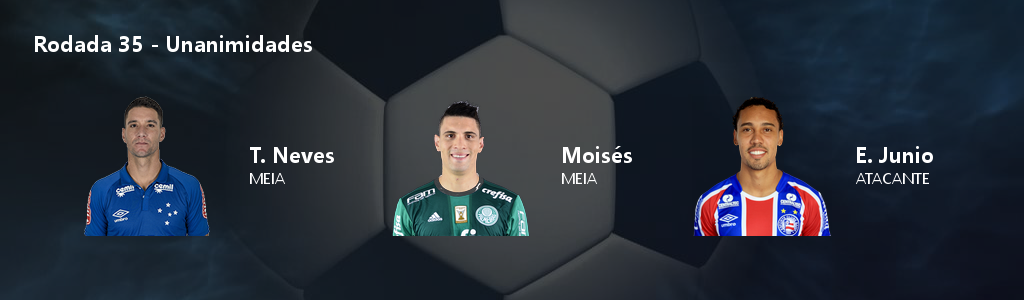
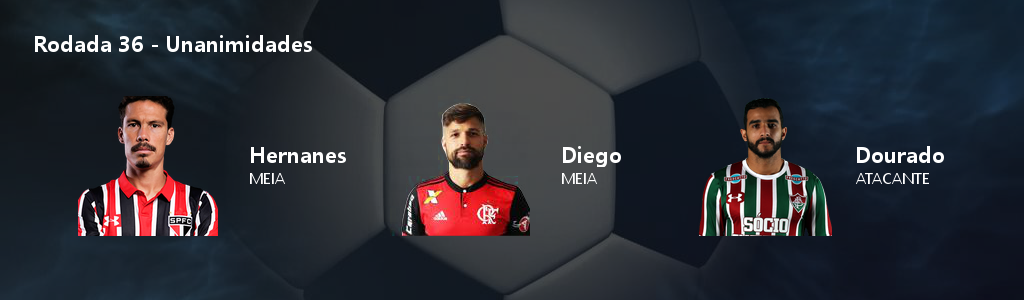
pictures update for round 36 and adjust for getting update's time

diff --git a/js/indexfunctions.js b/js/indexfunctions.js
@@ -181,10 +181,13 @@ function gridMercadoLoad(pTeamFilter, pPosFilter, pStatusFilter){
             posFilter: pPosFilter,
             statusFilter: pStatusFilter
         },
-        function(data, status){
+        function(dataMercado, status){
+            jsonDataMercado = JSON.parse(dataMercado);
+            var d = new Date(jsonDataMercado[0]+" UTC");
+            console.log(d.toLocaleString());
             table = $('#mercado').DataTable();
             table.clear();
-            table.rows.add(JSON.parse(data)).draw();
+            table.rows.add(jsonDataMercado[1]).draw();
         }
     );
 }
@@ -201,73 +204,75 @@ function gridJogadorLoad(pPlayerFilter){
             table = $('#jogador').DataTable();
             table.clear();
             var jsonData = JSON.parse(data);
-            table.rows.add(jsonData).draw();
+            table.rows.add(jsonData[1]).draw();
+            console.log(jsonData);
             
             //Preparing data for graph
             //Get the player's name
-            var playerNickname = jsonData[0].Apelido;
+            var playerNickname = jsonData[1][0].Apelido;
+            console.log(playerNickname);
             
             //Get data and define the labels
-            var auxlblRounds = Enumerable.From(jsonData)
+            var auxlblRounds = Enumerable.From(jsonData[1])
                     .OrderBy("$.Rodada_ID")
                     .Select("x => x.Rodada_ID + '-' + x.CASA_D.trim() + ' x ' + x.FORA_D.trim()").ToArray();
             
             //Load auxiliary variables (Points and Scout)
-            var auxpenPts = Enumerable.From(jsonData)
+            var auxpenPts = Enumerable.From(jsonData[1])
                     .OrderBy("$.Rodada_ID")
                     .Select("$.Pts_Ult").ToArray();
-            var auxpenG = Enumerable.From(jsonData)
+            var auxpenG = Enumerable.From(jsonData[1])
                     .OrderBy("$.Rodada_ID")
                     .Select("$.G").ToArray();
-            var auxpenA = Enumerable.From(jsonData)
+            var auxpenA = Enumerable.From(jsonData[1])
                     .OrderBy("$.Rodada_ID")
                     .Select("$.A").ToArray();
-            var auxpenF = Enumerable.From(jsonData)
+            var auxpenF = Enumerable.From(jsonData[1])
                     .OrderBy("$.Rodada_ID")
                     .Select("$.F").ToArray();
-            var auxpenFT = Enumerable.From(jsonData)
+            var auxpenFT = Enumerable.From(jsonData[1])
                     .OrderBy("$.Rodada_ID")
                     .Select("$.FT").ToArray();
-            var auxpenFD = Enumerable.From(jsonData)
+            var auxpenFD = Enumerable.From(jsonData[1])
                     .OrderBy("$.Rodada_ID")
                     .Select("$.FD").ToArray();
-            var auxpenFF = Enumerable.From(jsonData)
+            var auxpenFF = Enumerable.From(jsonData[1])
                     .OrderBy("$.Rodada_ID")
                     .Select("$.FF").ToArray();
-            var auxpenFS = Enumerable.From(jsonData)
+            var auxpenFS = Enumerable.From(jsonData[1])
                     .OrderBy("$.Rodada_ID")
                     .Select("$.FS").ToArray();
-            var auxpenRB = Enumerable.From(jsonData)
+            var auxpenRB = Enumerable.From(jsonData[1])
                     .OrderBy("$.Rodada_ID")
                     .Select("$.RB").ToArray();
-            var auxpenSG = Enumerable.From(jsonData)
+            var auxpenSG = Enumerable.From(jsonData[1])
                     .OrderBy("$.Rodada_ID")
                     .Select("$.SG").ToArray();
-            var auxpenDD = Enumerable.From(jsonData)
+            var auxpenDD = Enumerable.From(jsonData[1])
                     .OrderBy("$.Rodada_ID")
                     .Select("$.DD").ToArray();
-            var auxpenDP = Enumerable.From(jsonData)
+            var auxpenDP = Enumerable.From(jsonData[1])
                     .OrderBy("$.Rodada_ID")
                     .Select("$.DP").ToArray();
-            var auxpenPE = Enumerable.From(jsonData)
+            var auxpenPE = Enumerable.From(jsonData[1])
                     .OrderBy("$.Rodada_ID")
                     .Select("$.PE").ToArray();
-            var auxpenI = Enumerable.From(jsonData)
+            var auxpenI = Enumerable.From(jsonData[1])
                     .OrderBy("$.Rodada_ID")
                     .Select("$.I").ToArray();
-            var auxpenPP = Enumerable.From(jsonData)
+            var auxpenPP = Enumerable.From(jsonData[1])
                     .OrderBy("$.Rodada_ID")
                     .Select("$.PP").ToArray();
-            var auxpenCV = Enumerable.From(jsonData)
+            var auxpenCV = Enumerable.From(jsonData[1])
                     .OrderBy("$.Rodada_ID")
                     .Select("$.CV").ToArray();
-            var auxpenCA = Enumerable.From(jsonData)
+            var auxpenCA = Enumerable.From(jsonData[1])
                     .OrderBy("$.Rodada_ID")
                     .Select("$.CA").ToArray();
-            var auxpenFC = Enumerable.From(jsonData)
+            var auxpenFC = Enumerable.From(jsonData[1])
                     .OrderBy("$.Rodada_ID")
                     .Select("$.FC").ToArray();
-            var auxpenGS = Enumerable.From(jsonData)
+            var auxpenGS = Enumerable.From(jsonData[1])
                     .OrderBy("$.Rodada_ID")
                     .Select("$.GS").ToArray();
             

diff --git a/templates/header.html b/templates/header.html
@@ -35,21 +35,21 @@
     <!-- Wrapper for slides -->
     <div class="carousel-inner" role="listbox">
       <div class="item active">
-          <img src="images/caurosel1.png?v=1.0.9" alt="Image">
+          <img src="images/caurosel1.png?v=1.0.10" alt="Image">
         <div class="carousel-caption">
           
         </div>      
       </div>
 
       <div class="item">
-          <img src="images/caurosel2.png?v=1.0.9" alt="Image">
+          <img src="images/caurosel2.png?v=1.0.10" alt="Image">
         <div class="carousel-caption">
           
         </div>      
       </div>
         
       <div class="item">
-          <a href="matamata.php"><img src="images/caurosel3.png?v=1.0.9" alt="Image"></a>
+          <a href="matamata.php"><img src="images/caurosel3.png?v=1.0.10" alt="Image"></a>
         <div class="carousel-caption">
           
         </div>      

diff --git a/DataGathering.php b/DataGathering.php
@@ -46,7 +46,10 @@ $jsonStatus = json_decode($strStatus, true);
 //$jsonMercado = json_decode($strMercado, true);
 
 //Creating an array to put filtered result
-$result = array();
+$result = array(2);
+$result[0] = null;
+$result[1] = [];
+//$result = array();
 
 //Verify status and collect current round
 $currentStatus = $jsonStatus['status_mercado'];
@@ -68,8 +71,16 @@ if($flagPlayer){
         $query->containedIn('Pos', $posFilter);
     }
     $queryresult = $query->find();
+
+    //Get data date
+//    $auxDate = ["createdAt" => $queryresult[0]->getCreatedAt()];
+//    array_push($result[0], $auxDate["createdAt"]->date);  
+    $auxDate = $queryresult[0]->getCreatedAt();
+    $result[0] = $auxDate->format('Y-m-d H:i:s');;
+    
     foreach ($queryresult as $auxiliar){
-        array_push($result, $auxiliar->getAllKeys());
+        array_push($result[1], $auxiliar->getAllKeys());
+//        array_push($result, $auxiliar->getAllKeys());
     }
     
 }
@@ -83,7 +94,7 @@ else{
     $query->equalTo('Atleta_ID', intval($playerFilter[0]));
     $queryresult = $query->find();
     foreach ($queryresult as $auxiliar){
-        array_push($result, $auxiliar->getAllKeys());
+        array_push($result[1], $auxiliar->getAllKeys());
     }
 }
 

diff --git a/index.php b/index.php
@@ -57,8 +57,8 @@
   <script src="https://cdnjs.cloudflare.com/ajax/libs/linq.js/2.2.0.2/linq.min.js" integrity="sha256-dq1fzSor46Oc+U/DjuE2hKKN0FfvbVx+CW5GBn1mhiQ=" crossorigin="anonymous"></script>
   
   <!--User Scripts-->
-  <script src="js/indexfunctions.js?v=1.0.5"></script>
-  <script src="js/index.js?v=1.0.5"></script>
+  <script src="js/indexfunctions.js?v=1.0.6"></script>
+  <script src="js/index.js?v=1.0.6"></script>
   
 </head>
 <body data-spy="scroll" data-target=".navbar" data-offset="50">
@@ -71,7 +71,7 @@
       
         <div class="col-md-12">
             <br>
-            <h3 class="h3Mercado">Mercado</h3>
+            <h3 id="TituloMercado" class="h3Mercado">Mercado</h3>
             <div class="btn-group pull-right">
                 <button id="Filtra" type="button" class="btn btn-default" >Filtrar</button>
                 <button id="Limpa" type="button" class="btn btn-default" >Limpa Filtros</button>
@@ -280,6 +280,6 @@
 
 </body>
 
-<script src="js/indexfooter.js?v=1.0.5"></script>
+<script src="js/indexfooter.js?v=1.0.6"></script>
 
 </html>
